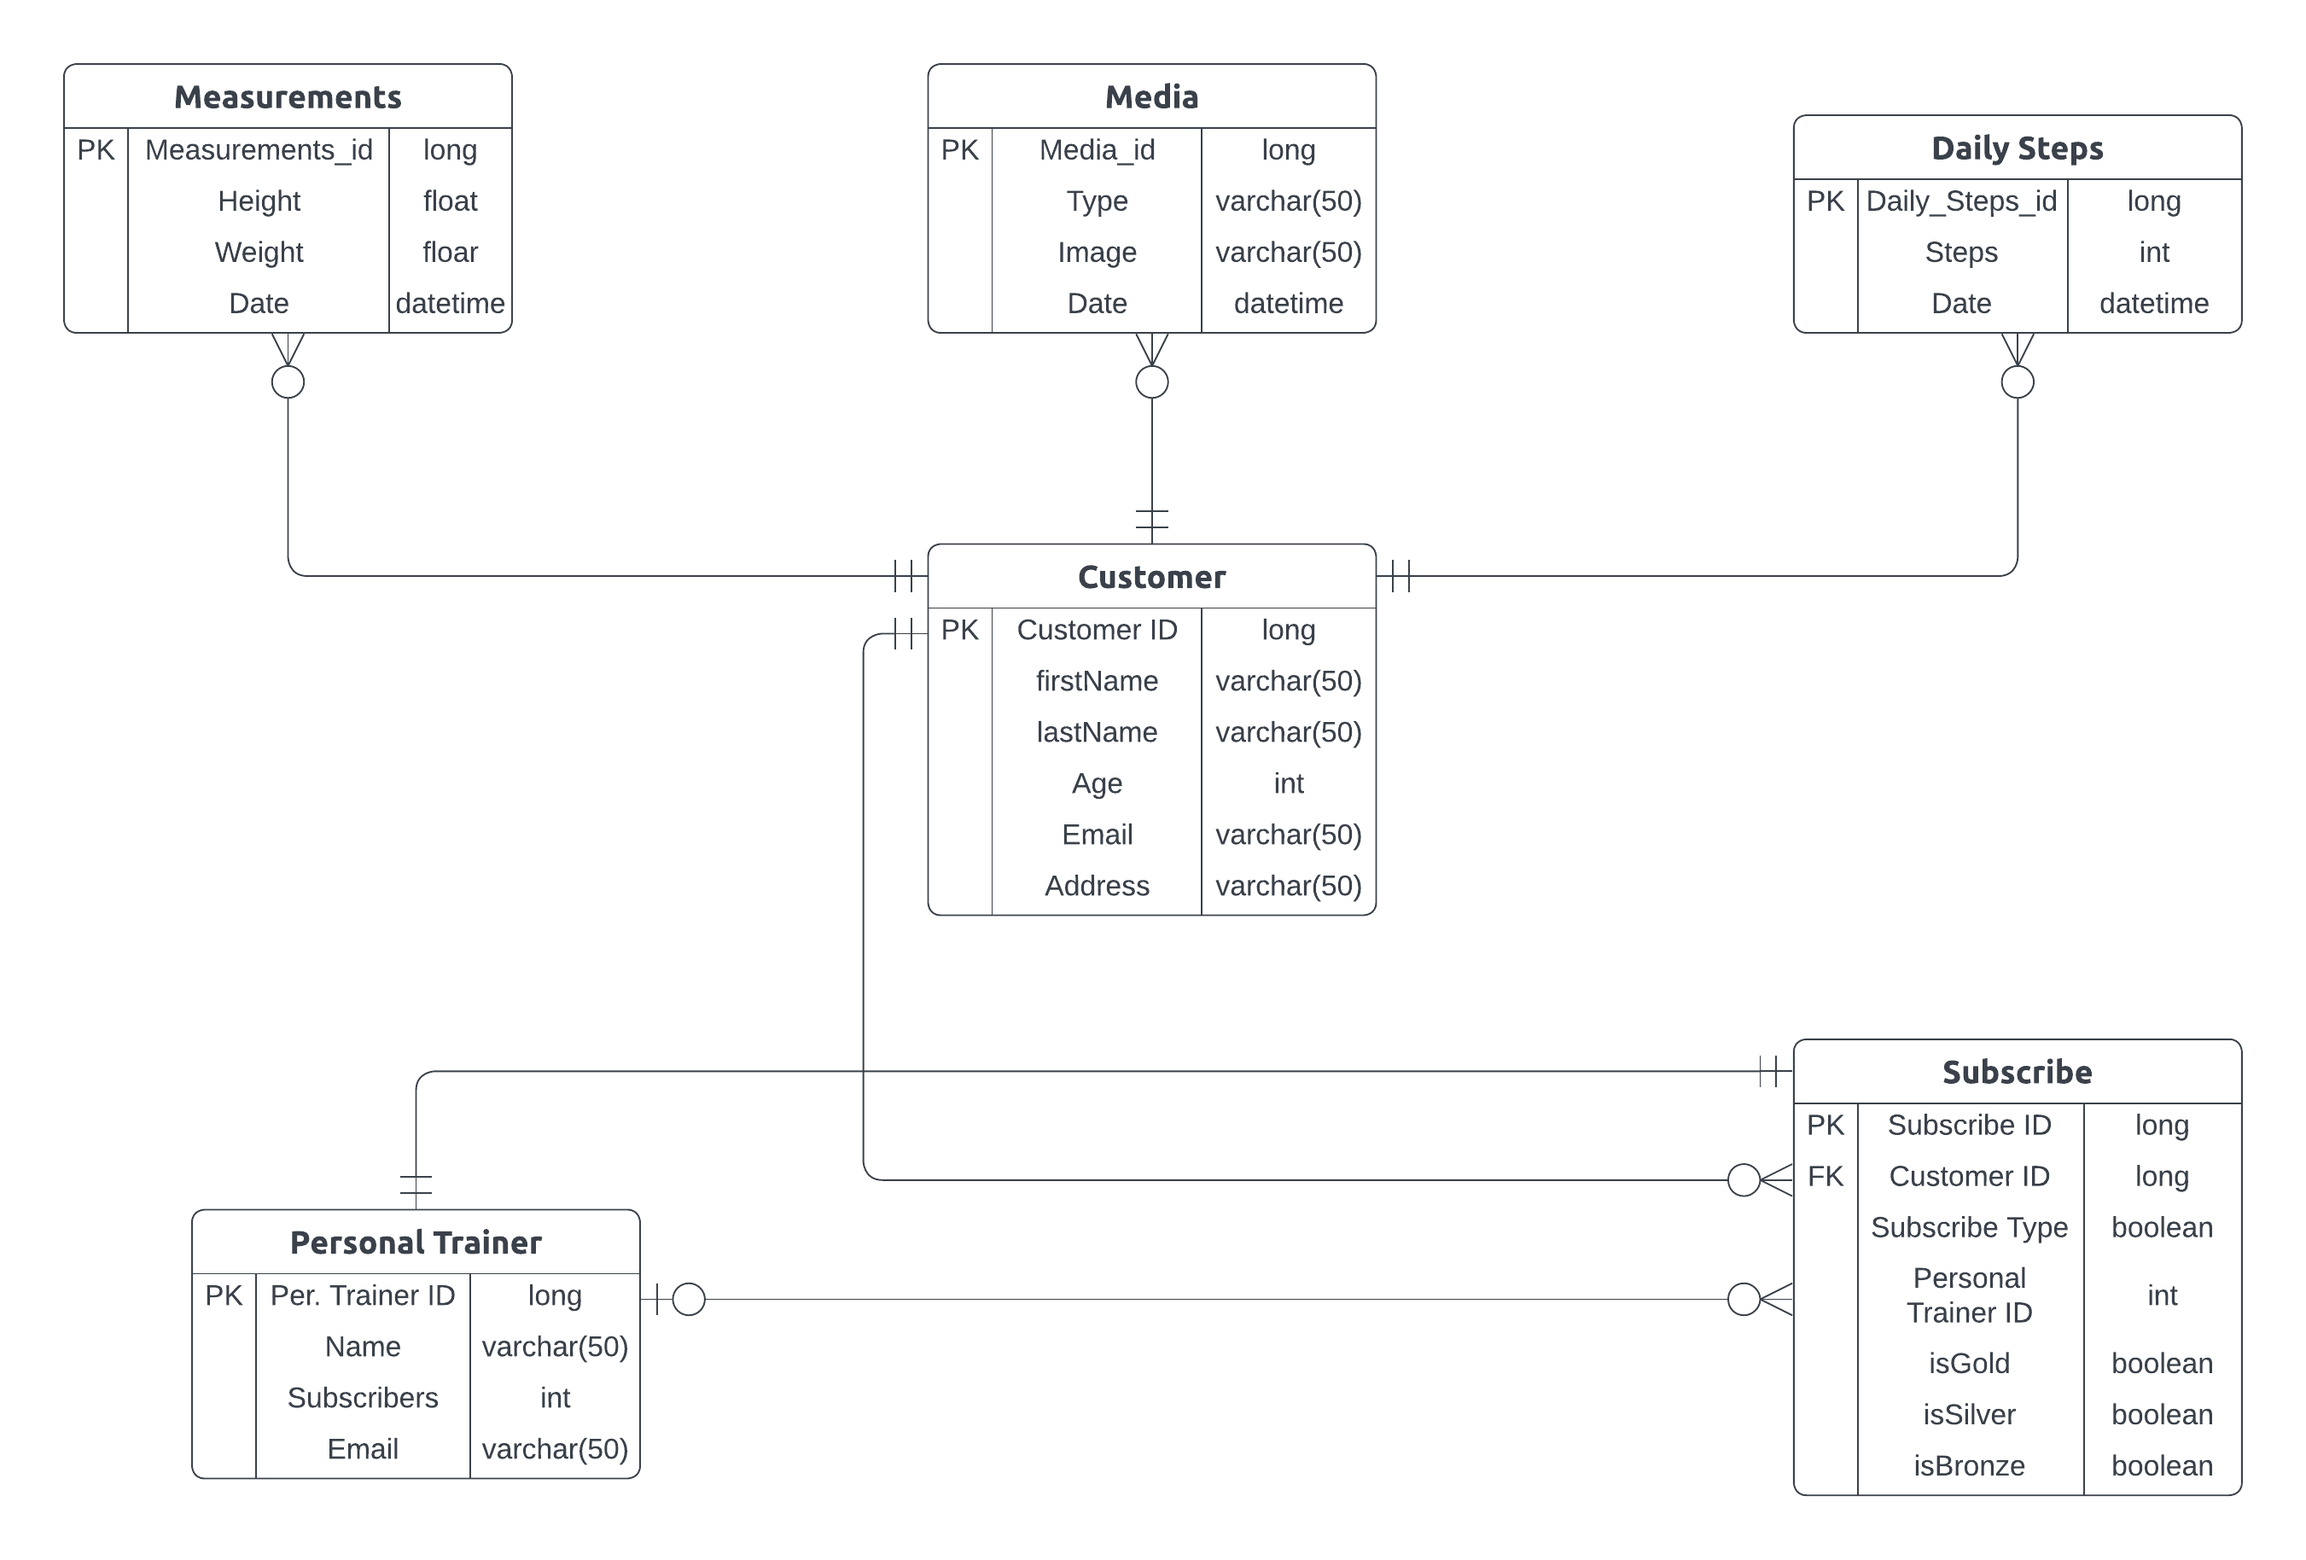
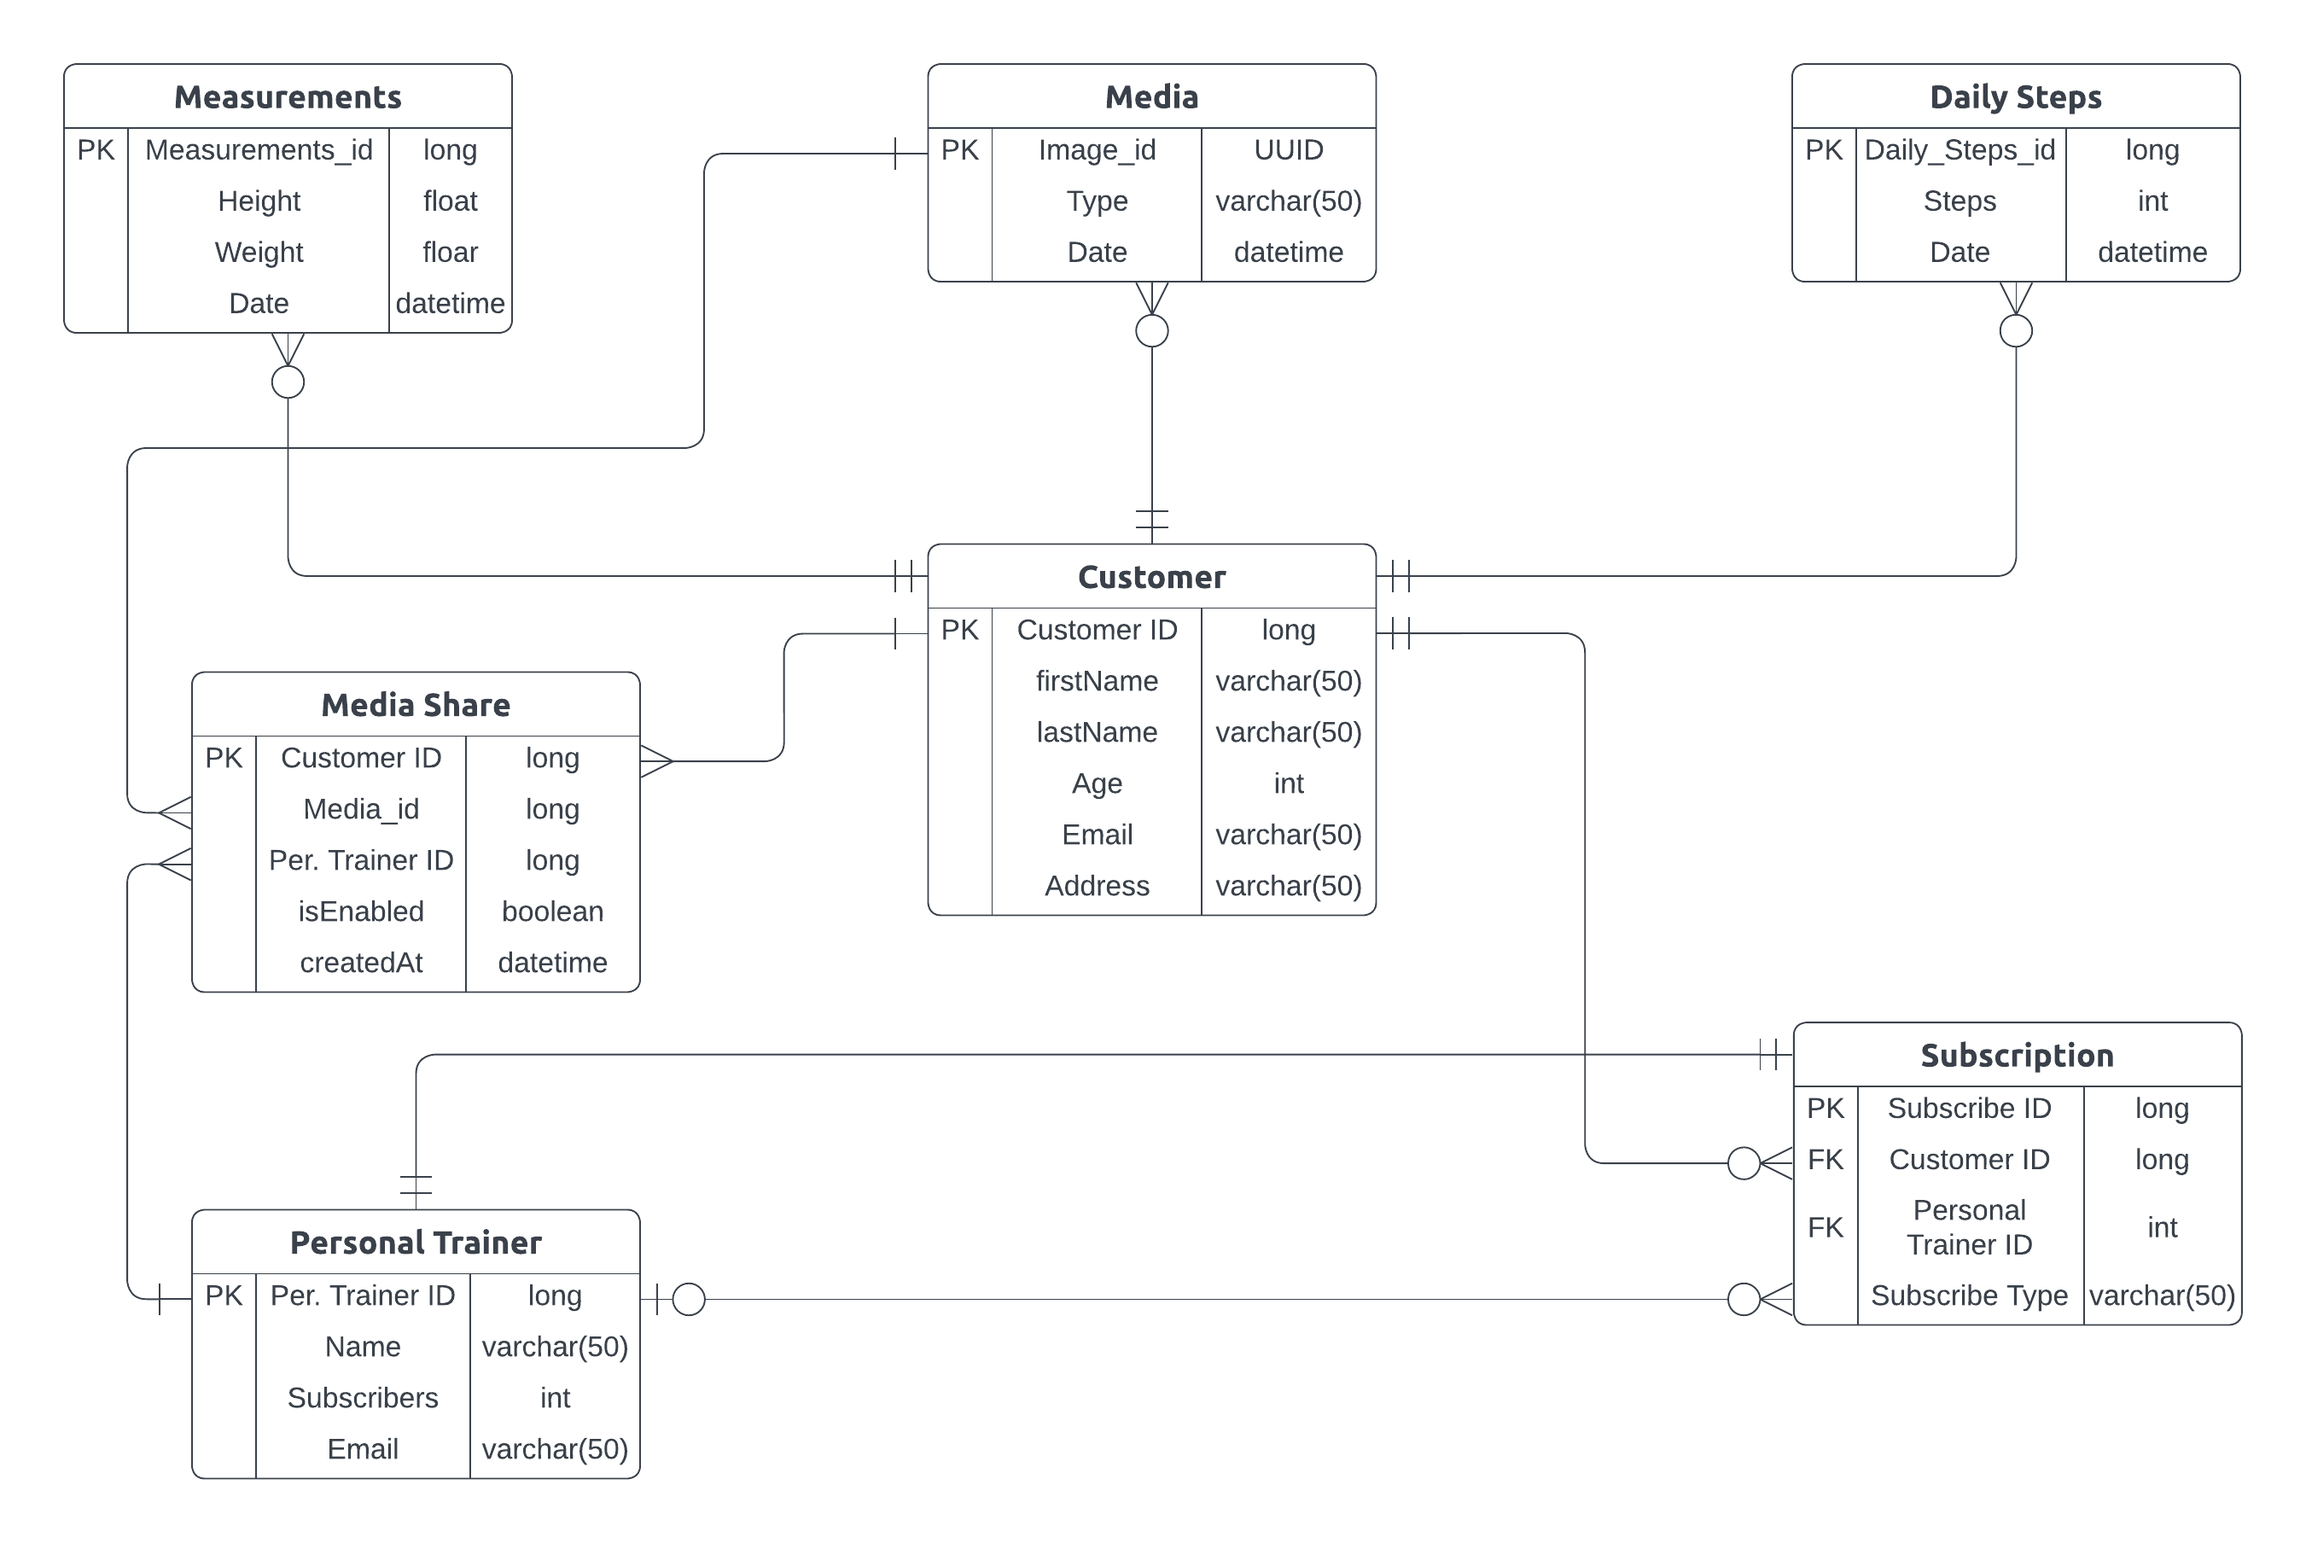
Basic Implementations (#1)
* Updated test for creation of a customer

* Updated API Version and the ER diagram

* Refactored the customer entity to user

* Added API for getting the user data

* Refactored MainControllerTest and getUserById

* Refactored MainControllerTest and getUserById

* Refactored custom exception

* Added global exception handling and email validation

* Check if email already exists with custom exception

* Refactor on createUser method

diff --git a/src/test/java/com/project/trackfit/control/UserControllerTest.java b/src/test/java/com/project/trackfit/control/UserControllerTest.java
@@ -1,0 +1,67 @@
+package com.project.trackfit.control;
+
+import org.junit.jupiter.api.DisplayName;
+import org.junit.jupiter.api.Test;
+import org.springframework.beans.factory.annotation.Autowired;
+import org.springframework.boot.test.autoconfigure.web.servlet.AutoConfigureMockMvc;
+import org.springframework.boot.test.context.SpringBootTest;
+import org.springframework.http.MediaType;
+import org.springframework.test.annotation.DirtiesContext;
+import org.springframework.test.context.TestPropertySource;
+import org.springframework.test.web.servlet.MockMvc;
+import org.springframework.test.web.servlet.ResultActions;
+
+import static org.springframework.test.web.servlet.request.MockMvcRequestBuilders.get;
+import static org.springframework.test.web.servlet.request.MockMvcRequestBuilders.post;
+import static org.springframework.test.web.servlet.result.MockMvcResultMatchers.content;
+import static org.springframework.test.web.servlet.result.MockMvcResultMatchers.jsonPath;
+import static org.springframework.test.web.servlet.result.MockMvcResultMatchers.status;
+
+@SpringBootTest
+@AutoConfigureMockMvc
+@TestPropertySource(locations = "classpath:application-test.properties")
+@DirtiesContext(classMode = DirtiesContext.ClassMode.AFTER_EACH_TEST_METHOD)
+public class UserControllerTest {
+
+    @Autowired
+    private MockMvc mockMvc;
+
+    private static final String jsonPayLoad = "{\"firstName\": \"Andreas\", \"lastName\": \"Kreouzos\", " +
+            "\"age\": 37, \"email\": \"andreas.kreouzos@hotmail.com\", \"address\": \"Athens, Greece\"}";
+
+    @Test
+    @DisplayName("Should return the user which created through a post request")
+    public void createUser() throws Exception {
+        ResultActions resultActions = postRequest();
+        resultActions
+                .andExpect(jsonPath("$.customer_id").value(1))
+                .andExpect(jsonPath("$.firstName").value("Andreas"))
+                .andExpect(jsonPath("$.lastName").value("Kreouzos"))
+                .andExpect(jsonPath("$.age").value(37))
+                .andExpect(jsonPath("$.email").value("andreas.kreouzos@hotmail.com"))
+                .andExpect(jsonPath("$.address").value("Athens, Greece"));
+    }
+
+    @Test
+    @DisplayName("Should return the user by Id through a get request")
+    public void getUserById() throws Exception {
+        postRequest();
+
+        mockMvc.perform(get("/api/v1/users/1"))
+                .andExpect(status().isOk())
+                .andExpect(content().contentType(MediaType.APPLICATION_JSON))
+                .andExpect(jsonPath("$.customer_id").value(1))
+                .andExpect(jsonPath("$.firstName").value("Andreas"))
+                .andExpect(jsonPath("$.lastName").value("Kreouzos"))
+                .andExpect(jsonPath("$.age").value(37))
+                .andExpect(jsonPath("$.email").value("andreas.kreouzos@hotmail.com"))
+                .andExpect(jsonPath("$.address").value("Athens, Greece"));
+    }
+
+    private ResultActions postRequest() throws Exception {
+        return mockMvc.perform(post("/api/v1/registrations")
+                        .contentType(MediaType.APPLICATION_JSON)
+                        .content(jsonPayLoad))
+                .andExpect(status().isCreated());
+    }
+}

diff --git a/src/main/java/com/project/trackfit/exception/GlobalExceptionHandler.java b/src/main/java/com/project/trackfit/exception/GlobalExceptionHandler.java
@@ -1,0 +1,41 @@
+package com.project.trackfit.exception;
+
+import org.springframework.http.HttpStatus;
+import org.springframework.web.bind.annotation.ExceptionHandler;
+import org.springframework.web.bind.annotation.ResponseBody;
+import org.springframework.web.bind.annotation.ResponseStatus;
+import org.springframework.web.bind.annotation.RestControllerAdvice;
+
+@RestControllerAdvice
+public class GlobalExceptionHandler {
+
+    @ExceptionHandler(ResourceNotFoundException.class)
+    @ResponseStatus(HttpStatus.NOT_FOUND)
+    @ResponseBody
+    public ErrorResponse handleUserDoesNotExistException(ResourceNotFoundException exception) {
+        ErrorResponse errorResponse = new ErrorResponse();
+        errorResponse.setMessage("User Doesn't Exist");
+        errorResponse.setEx(exception);
+        return errorResponse;
+    }
+
+    @ExceptionHandler(EmailNotValidException.class)
+    @ResponseStatus(HttpStatus.BAD_REQUEST)
+    @ResponseBody
+    public ErrorResponse handleEmailNotValidException(EmailNotValidException exception) {
+        ErrorResponse errorResponse = new ErrorResponse();
+        errorResponse.setMessage("Email not valid");
+        errorResponse.setEx(exception);
+        return errorResponse;
+    }
+
+    @ExceptionHandler(EmailAlreadyTakenException.class)
+    @ResponseStatus(HttpStatus.BAD_REQUEST)
+    @ResponseBody
+    public ErrorResponse handleEmailAlreadyTakenException(EmailAlreadyTakenException exception) {
+        ErrorResponse errorResponse = new ErrorResponse();
+        errorResponse.setMessage("Email already taken");
+        errorResponse.setEx(exception);
+        return errorResponse;
+    }
+}

diff --git a/src/main/java/com/project/trackfit/service/impl/UserServiceImpl.java b/src/main/java/com/project/trackfit/service/impl/UserServiceImpl.java
@@ -1,0 +1,45 @@
+package com.project.trackfit.service.impl;
+
+import com.project.trackfit.exception.EmailAlreadyTakenException;
+import com.project.trackfit.exception.EmailNotValidException;
+import com.project.trackfit.exception.ResourceNotFoundException;
+import com.project.trackfit.model.User;
+import com.project.trackfit.registration.EmailValidator;
+import com.project.trackfit.repository.UserRepository;
+import com.project.trackfit.service.UserService;
+import lombok.AllArgsConstructor;
+import org.springframework.stereotype.Service;
+
+@Service
+@AllArgsConstructor
+public class UserServiceImpl implements UserService {
+
+    private final UserRepository userRepository;
+    private final EmailValidator emailValidator;
+
+    @Override
+    public Long createUser(User user) {
+        checkEmailValidity(user);
+        checkEmailExists(user.getEmail());
+        return user.getCustomer_id();
+    }
+
+    @Override
+    public User getUserById(Long userId) {
+        return userRepository
+                .findById(userId)
+                .orElseThrow(ResourceNotFoundException::new);
+    }
+
+    private void checkEmailValidity(User user) {
+        if (!(emailValidator.checkMailPattern(user.getEmail()))){
+            throw new EmailNotValidException();
+        }
+    }
+
+    private void checkEmailExists(String email){
+        if (userRepository.existsByEmail(email)){
+            throw new EmailAlreadyTakenException();
+        }
+    }
+}

diff --git a/src/main/java/com/project/trackfit/control/UserController.java b/src/main/java/com/project/trackfit/control/UserController.java
@@ -1,0 +1,36 @@
+package com.project.trackfit.control;
+
+import com.project.trackfit.model.User;
+import com.project.trackfit.service.UserService;
+import lombok.AllArgsConstructor;
+import org.springframework.http.HttpStatus;
+import org.springframework.http.ResponseEntity;
+import org.springframework.web.bind.annotation.*;
+
+@RestController
+@AllArgsConstructor
+@RequestMapping("api/v1/users")
+public class UserController {
+
+    private final UserService userService;
+
+    /**
+     * Spring Boot REST API creates a User
+     * http://[::1]:8080/api/v1/users/
+     */
+    @PostMapping
+    public ResponseEntity<Long> createUser(@RequestBody User user){
+        Long savedUserId = userService.createUser(user);
+        return new ResponseEntity<>(savedUserId, HttpStatus.CREATED);
+    }
+
+    /**
+     * Spring Boot REST API gets a User by Id
+     * http://[::1]:8080/api/v1/users/{id}
+     */
+    @GetMapping("{id}")
+    public ResponseEntity<User> getUserById(@PathVariable("id") Long userId) {
+        User user = userService.getUserById(userId);
+        return new ResponseEntity<>(user, HttpStatus.OK);
+    }
+}

diff --git a/src/main/java/com/project/trackfit/registration/EmailValidator.java b/src/main/java/com/project/trackfit/registration/EmailValidator.java
@@ -1,0 +1,24 @@
+package com.project.trackfit.registration;
+
+import org.springframework.beans.factory.annotation.Autowired;
+import org.springframework.beans.factory.annotation.Value;
+import org.springframework.context.annotation.PropertySource;
+import org.springframework.stereotype.Component;
+
+import java.util.regex.Pattern;
+
+@Component
+@PropertySource("classpath:application.properties")
+public class EmailValidator {
+
+    private final Pattern USER_INPUT_PATTERN;
+
+    @Autowired
+    public EmailValidator(@Value("${string.regex}") String regex) {
+        this.USER_INPUT_PATTERN = Pattern.compile(regex, Pattern.CASE_INSENSITIVE);
+    }
+
+    public boolean checkMailPattern(String emailAddress) {
+        return USER_INPUT_PATTERN.matcher(emailAddress).matches();
+    }
+}

diff --git a/src/main/java/com/project/trackfit/model/User.java b/src/main/java/com/project/trackfit/model/User.java
@@ -11,8 +11,8 @@ import lombok.Setter;
 @NoArgsConstructor
 @AllArgsConstructor
 @Entity
-@Table(name = "customers")
-public class Customer {
+@Table(name = "users")
+public class User {
     @Id
     @GeneratedValue(strategy = GenerationType.IDENTITY)
     private Long customer_id;

diff --git a/src/main/java/com/project/trackfit/repository/UserRepository.java b/src/main/java/com/project/trackfit/repository/UserRepository.java
@@ -1,0 +1,8 @@
+package com.project.trackfit.repository;
+
+import com.project.trackfit.model.User;
+import org.springframework.data.jpa.repository.JpaRepository;
+
+public interface UserRepository extends JpaRepository<User, Long> {
+    boolean existsByEmail(String email);
+}

diff --git a/src/main/java/com/project/trackfit/exception/ErrorResponse.java b/src/main/java/com/project/trackfit/exception/ErrorResponse.java
@@ -1,0 +1,11 @@
+package com.project.trackfit.exception;
+
+import lombok.Getter;
+import lombok.Setter;
+
+@Getter
+@Setter
+public class ErrorResponse {
+    private String message;
+    private Throwable ex;
+}

diff --git a/src/main/java/com/project/trackfit/service/UserService.java b/src/main/java/com/project/trackfit/service/UserService.java
@@ -1,0 +1,8 @@
+package com.project.trackfit.service;
+
+import com.project.trackfit.model.User;
+
+public interface UserService {
+    Long createUser(User user);
+    User getUserById(Long userId);
+}

diff --git a/src/main/java/com/project/trackfit/exception/EmailAlreadyTakenException.java b/src/main/java/com/project/trackfit/exception/EmailAlreadyTakenException.java
@@ -1,0 +1,7 @@
+package com.project.trackfit.exception;
+
+public class EmailAlreadyTakenException extends RuntimeException {
+    public EmailAlreadyTakenException() {
+        super();
+    }
+}

diff --git a/src/main/java/com/project/trackfit/exception/ResourceNotFoundException.java b/src/main/java/com/project/trackfit/exception/ResourceNotFoundException.java
@@ -1,0 +1,7 @@
+package com.project.trackfit.exception;
+
+public class ResourceNotFoundException extends RuntimeException {
+    public ResourceNotFoundException() {
+        super();
+    }
+}

diff --git a/src/main/java/com/project/trackfit/exception/EmailNotValidException.java b/src/main/java/com/project/trackfit/exception/EmailNotValidException.java
@@ -1,0 +1,7 @@
+package com.project.trackfit.exception;
+
+public class EmailNotValidException extends RuntimeException {
+    public EmailNotValidException() {
+        super();
+    }
+}
